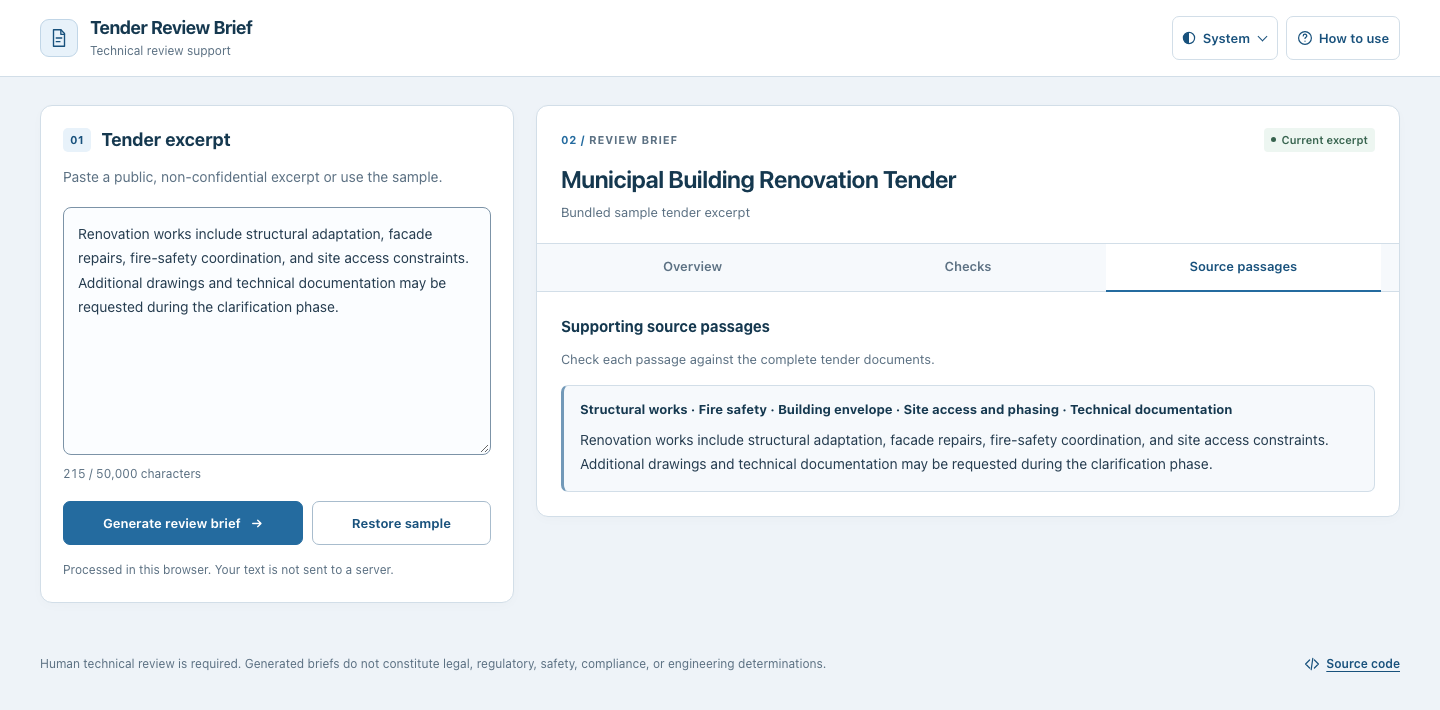
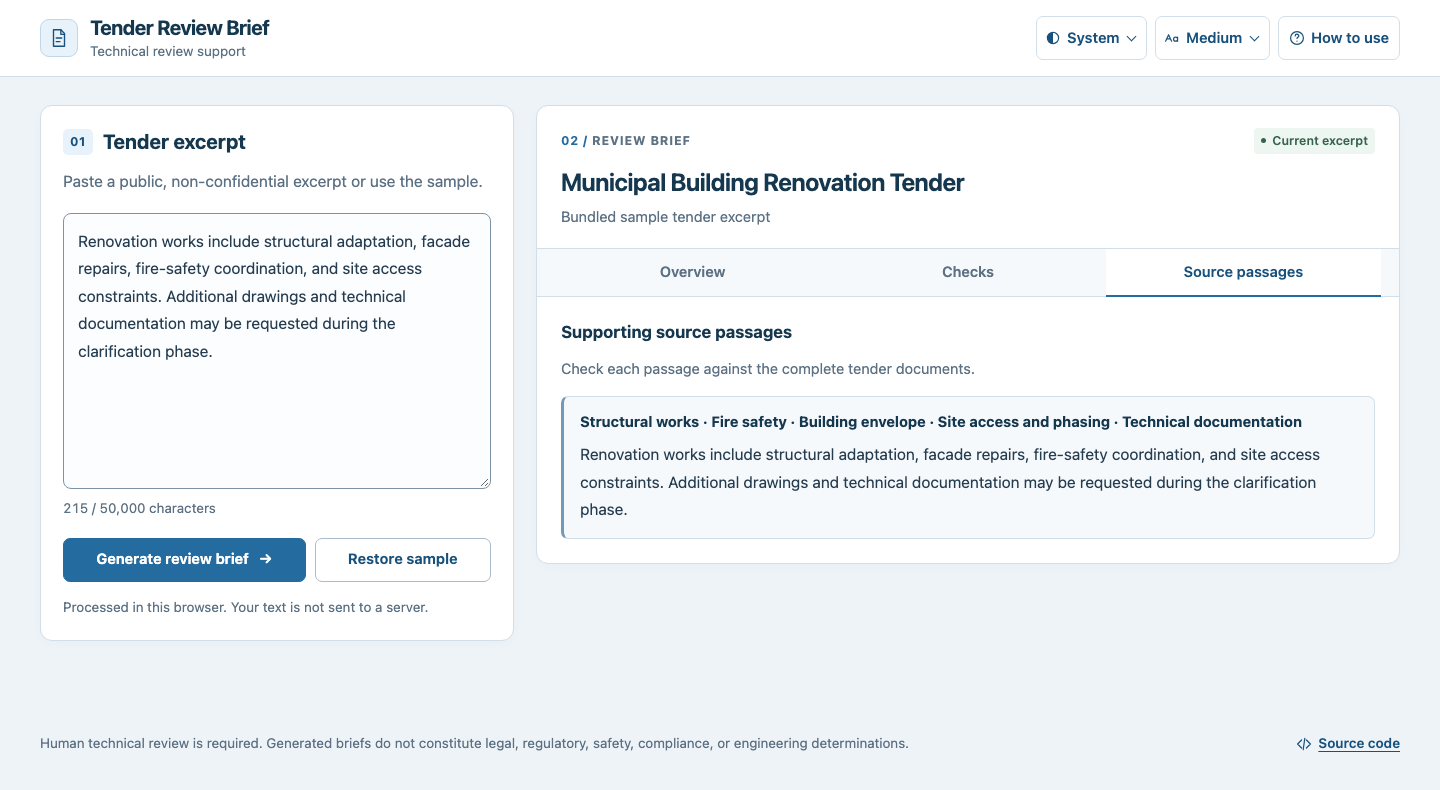
docs: describe text sizing and refresh the screenshots
The README explains the text sizes and which preference is used by
default. The testing guide covers Night and Large together in the
editor, source passages, and help.

Both screenshots reflect the new header and default text size.
The changelog records the display options and the softer Night
foreground colors.

diff --git a/docs/testing-evidence.md b/docs/testing-evidence.md
@@ -69,7 +69,7 @@ For fixtures containing tabs, Unicode separators, or long padding, the commands 
 
     Choose **Restore sample**. The confirmation must start with focus on **Cancel**. Cancel or press Escape and check that the excerpt, brief, and selected tab remain and focus returns to **Restore sample**. Open the confirmation again and choose **Restore sample** inside it to restore both the sample text and its brief.
 
-11. At 390 pixels wide, check that the editor uses the root font size (16 px at default settings). Generate a brief and check that focus moves to its heading and the result scrolls into view. Repeat at 375 × 667 pixels and check that the result's status badge stays within the screen. **Edit excerpt** must return focus to the input. At a wide desktop viewport, the editor and brief must appear side by side, and the bundled sample's overview should fit within a 1440 × 900 viewport.
+11. At 390 pixels wide, check that the editor uses the root font size (18 px with **Medium** and default browser settings). Generate a brief and check that focus moves to its heading and the result scrolls into view. Repeat at 375 × 667 pixels and check that the result's status badge stays within the screen. **Edit excerpt** must return focus to the input. At a wide desktop viewport, the editor and brief must appear side by side, and the bundled sample's overview should fit within a 1440 × 900 viewport.
 
 12. At a wide desktop viewport, generate a brief from this long passage:
 
@@ -110,5 +110,7 @@ For fixtures containing tabs, Unicode separators, or long padding, the commands 
 19. With the bundled overview at 1440 × 1000 pixels, look for **Source code** on the right near the bottom of the page. At 320 pixels wide, it must appear below the disclaimer on the left. The link opens the repository in a new tab. In **How to use**, the link with the document icon opens [Review a tender excerpt](../README.md#review-a-tender-excerpt) in a new tab.
 
 20. Set the theme to **System** and change the operating system or browser's preferred appearance between light and dark. The editor, brief, and dialogs should follow it without a reload. Choose **Day** with a dark preference or **Night** with a light preference. Reload to check that the manual choice is restored. Select **System** again to resume automatic changes. Check that switching themes preserves the current excerpt, brief, and selected result tab.
+
+21. Choose **Night** and try **Small**, **Medium**, and **Large** in the text size selector. Check the editor, a source passage, and **How to use** at each size. At 320 pixels wide with **Large**, the page must fit without horizontal scrolling. The help link must remain reachable by scrolling or with Tab. Reload to check that both Night and Large are restored.
 
 Paragraph context is a text-boundary policy. These checks do not establish that all conditions elsewhere in the tender have been captured or that the keyword matcher understands exclusions.

diff --git a/docs/development.md b/docs/development.md
@@ -50,7 +50,7 @@ Saved-result checks cover edits, reloads, regeneration, and older briefs. They v
 
 Enlarged-text checks at 320 and 390 pixels verify that the header stays readable and tab labels keep whole words. Separate checks cover the footer link's placement and the visibility of the focused documentation link in a short help dialog.
 
-Theme checks cover changes to the browser's preferred color scheme, manual overrides after reload, and switching themes with `localStorage` blocked. The theme preference uses `localStorage`. Excerpts and briefs use `sessionStorage`.
+Appearance checks cover changes to the browser's preferred color scheme, restoring the theme and text size after reload, and applying preferences with `localStorage` blocked. They also verify that the editor, source passages, and help scale. Appearance preferences use `localStorage`. Excerpts and briefs use `sessionStorage`.
 
 Playwright keeps a trace in `test-results/` when a browser test fails. See [manual browser checks](testing-evidence.md) for additional checks in other browsers.
 

diff --git a/README.md b/README.md
@@ -14,7 +14,7 @@ The application uses predefined keyword rules to suggest technical scopes, revie
 
 **How to use** opens a short guide in the application, with a link to the full documentation on GitHub.
 
-The theme selector beside **How to use** offers **Day**, **Night**, and **System**. **System** follows your browser's light or dark preference, even when it changes while the app is open. The browser remembers your selection when local storage is available.
+The theme selector offers **Day**, **Night**, and **System**. **System** follows your browser's light or dark preference, even when it changes while the app is open. Use the **Text size** selector beside it to choose **Small**, **Medium** (default), or **Large**. The browser remembers both choices when local storage is available.
 
 1. Choose **Restore sample** to try the example, or paste public, non-confidential text into **Tender excerpt**.
 2. Choose **Generate review brief**. Review the detected scopes and focus areas in **Overview**, then the suggested checks and questions in **Checks**.

diff --git a/CHANGELOG.md b/CHANGELOG.md
@@ -7,6 +7,8 @@ the excerpt editor beside the generated brief on wider screens.
 
 ### Changed
 
+- Offer **Small**, **Medium**, and **Large** text sizes, with **Medium** as the
+  default. Soften text, heading, and link colors in **Night**.
 - Add **Day**, **Night**, and **System** themes and save the selection in the
   browser. **System** follows light or dark appearance as it changes.
 - Add a **Source code** link to the application footer.
